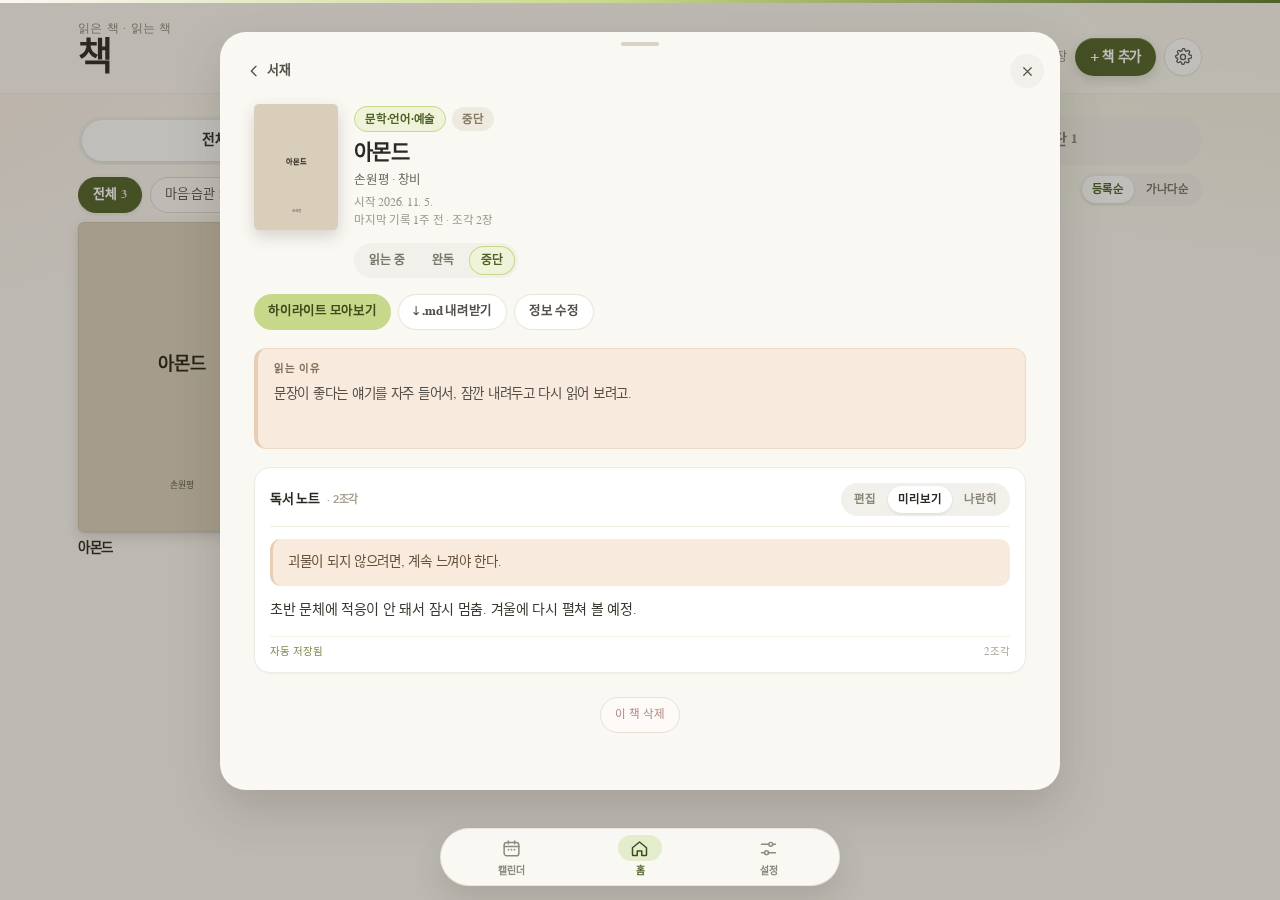
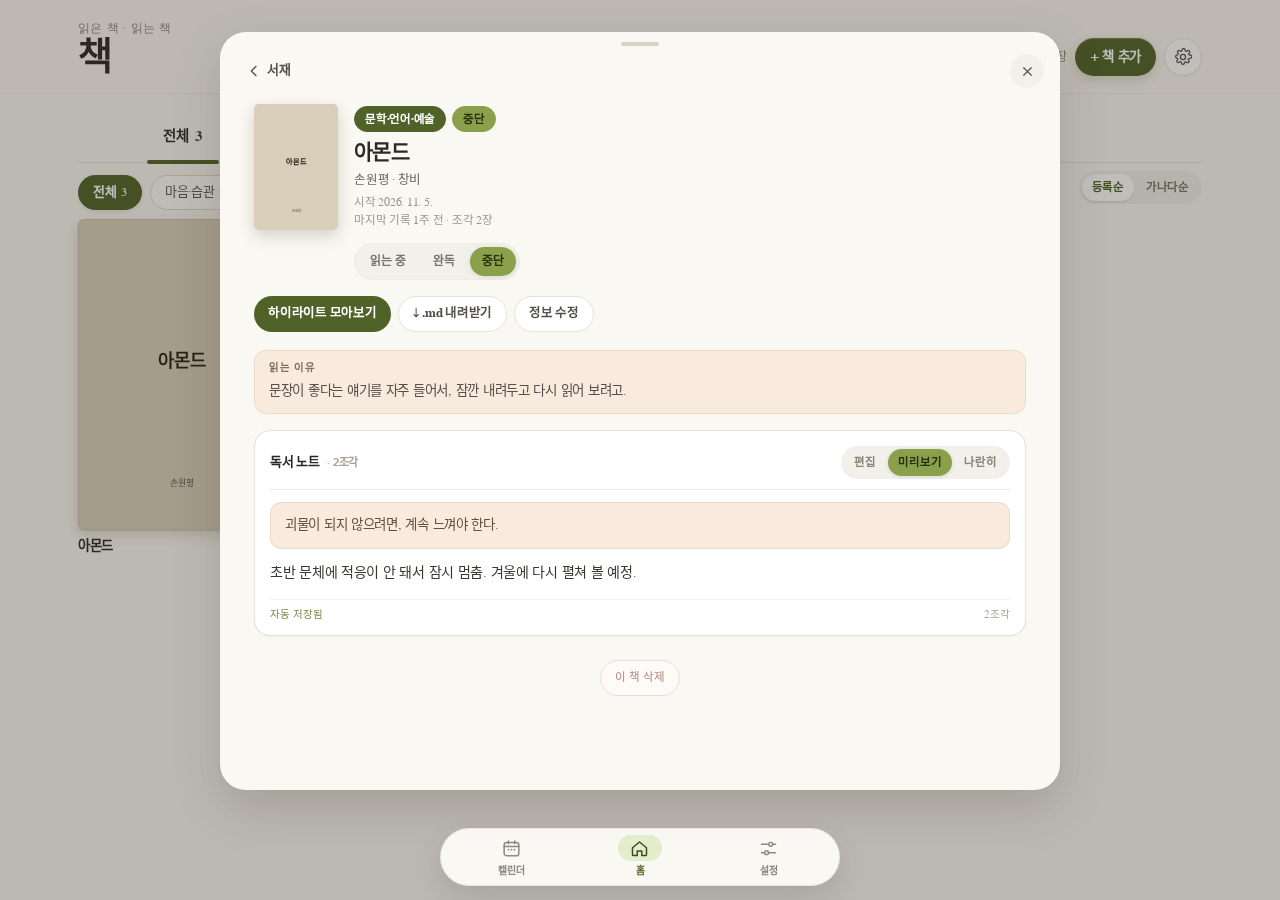
상세 페이지 여백·선·색상 정리, 서재 상태 탭 밑줄 스타일
- 읽는 이유 카드: 왼쪽 굵은 선 제거(사면 1px), 패딩 10px 14px, 입력한 만큼만 높아지게(min 22px)
- 인용구: 미리보기·하이라이트 모아보기 모두 왼쪽 굵은 선 제거 → 얇은 테두리+부드러운 배경 카드
- 상세 3색 역할 분리: 카테고리 배지·하이라이트 모아보기=강조색, 상태 배지·상태 변경 바·노트 모드 탭=보조색(--on-accent2 추가)
- 노트 카드 테두리 강화(배경/카드 단색 구분), 서재 상태 탭을 알약 바에서 얇은 가로선 위 밑줄 탭으로 교체(강조색 4px 둥근 밑줄)
- README·미리보기 이미지 갱신

diff --git a/index.html b/index.html
@@ -28,6 +28,7 @@
   --on-accent:#FFFFFF;
   /* 두 번째 포인트 색 — 칩·보조 배지·인용 */
   --accent2:#8AA04A;
+  --on-accent2:#24320C;
   --accent2-text:#5C6E2A;
   --accent2-soft:#CBDBA0;
   --accent2-wash:#F2F6E4;
@@ -87,7 +88,7 @@
   --olive:#649B92; --olive-soft:#AFD0CA; --olive-wash:#E5F1EF;
   --olive-deep:#548A82; --btn-olive-ink:#1F4A45;
   --accent-text:#3B6B64; --on-accent:#0E2A26;
-  --accent2:#B3AA99; --accent2-text:#7E7462; --accent2-soft:#D9D1C3; --accent2-wash:#F4EFE5;
+  --accent2:#B3AA99; --on-accent2:#2E2A22; --accent2-text:#7E7462; --accent2-soft:#D9D1C3; --accent2-wash:#F4EFE5;
   --peach:#FFEFCA; --peach-line:#B3AA99; --peach-edge:#E6D9BE; --peach-ink:#5A4C33;
   --rose:#F7EBDC; --gray-card:#F3ECDD;
   --topbar-bg:rgba(255,246,225,.85); --topbar-line:rgba(179,170,153,.42);
@@ -113,7 +114,7 @@
   --olive:#90B787; --olive-soft:#C3DBBC; --olive-wash:#EDF6EA;
   --olive-deep:#7DA773; --btn-olive-ink:#2B4A22;
   --accent-text:#46763A; --on-accent:#1E3517;
-  --accent2:#7BB0E0; --accent2-text:#3C74A8; --accent2-soft:#BAD9F2; --accent2-wash:#E9F3FC;
+  --accent2:#7BB0E0; --on-accent2:#17334B; --accent2-text:#3C74A8; --accent2-soft:#BAD9F2; --accent2-wash:#E9F3FC;
   --peach:#FDEBE7; --peach-line:#FD8B7A; --peach-edge:#F8CBC1; --peach-ink:#7C3A2E;
   --rose:#FDEEEA; --gray-card:#EFF4ED;
   --topbar-bg:rgba(247,251,245,.84); --topbar-line:rgba(144,183,135,.35);
@@ -139,7 +140,7 @@
   --olive:#D1BF4E; --olive-soft:#E3D794; --olive-wash:#FBF4D6;
   --olive-deep:#C0AE3E; --btn-olive-ink:#3A3308;
   --accent-text:#6E6412; --on-accent:#2C2814;
-  --accent2:#9999CC; --accent2-text:#5B5B9B; --accent2-soft:#CBCBE7; --accent2-wash:#EFEFF8;
+  --accent2:#9999CC; --on-accent2:#22224A; --accent2-text:#5B5B9B; --accent2-soft:#CBCBE7; --accent2-wash:#EFEFF8;
   --peach:#EFEFF8; --peach-line:#9999CC; --peach-edge:#D2D2E8; --peach-ink:#3E3E6B;
   --rose:#F5ECF6; --gray-card:#F4EDD5;
   --topbar-bg:rgba(255,246,222,.85); --topbar-line:rgba(209,191,78,.35);
@@ -188,12 +189,20 @@ h1.app-title{margin:0;font-size:33px;line-height:1.05;font-weight:800;letter-spa
 
 /* ============ shelf ============ */
 .shell{max-width:1180px;margin:0 auto;padding:18px 24px calc(var(--tabbar-h) + 34px)}
-.segmented{display:flex;gap:3px;background:var(--seg-bg);border-radius:999px;padding:4px;overflow-x:auto;scrollbar-width:none;-ms-overflow-style:none}
+/* 상태 탭 = 밑줄 탭(얇은 가로선 위 4칸) */
+.segmented{display:flex;gap:0;background:transparent;border-bottom:1px solid var(--line);padding:0;overflow:visible}
 .segmented::-webkit-scrollbar{display:none}
-.seg-btn{flex:1 0 auto;border-radius:999px;padding:9px 10px;font-size:13.5px;font-weight:600;color:var(--seg-ink);white-space:nowrap;letter-spacing:-.02em;transition:background .15s,color .15s,box-shadow .15s;display:inline-flex;align-items:center;justify-content:center;gap:4px}
-.seg-btn .cnt{font-weight:700;font-size:12.5px;opacity:.85}
-.seg-btn.active{background:var(--seg-active-bg);color:var(--seg-active-ink);box-shadow:var(--seg-shadow)}
-.seg-btn.active .cnt{color:inherit;opacity:.82}
+.seg-btn{position:relative;flex:1 1 0;max-width:210px;min-width:0;border-radius:0;padding:8px 3px 12px;font-size:13.5px;font-weight:600;color:var(--seg-ink);white-space:nowrap;letter-spacing:-.02em;transition:color .15s;display:inline-flex;align-items:center;justify-content:center;gap:5px;text-align:center}
+.seg-btn::after{content:"";position:absolute;left:50%;bottom:-2px;width:100%;max-width:72px;height:4px;border-radius:99px;background:var(--chip-active-bg);transform:translateX(-50%) scaleX(0);transform-origin:center;transition:transform .18s ease}
+.seg-btn .cnt{font-weight:inherit;font-size:inherit;opacity:.7}
+.seg-btn.active{color:var(--ink);font-weight:800}
+.seg-btn.active .cnt{color:inherit;opacity:.9}
+.seg-btn.active::after{transform:translateX(-50%) scaleX(1)}
+.seg-btn:hover:not(.active){color:var(--ink-2)}
+@media(max-width:400px){
+  .seg-btn{font-size:12.5px;gap:4px;padding:8px 1px 11px}
+  .seg-btn::after{max-width:60px;height:3.5px}
+}
 .chips{display:flex;gap:8px;overflow-x:auto;padding:12px 0 4px;scrollbar-width:none;flex:1 1 auto;min-width:0}
 .shelf-bar{display:flex;align-items:flex-start;gap:8px}
 .sort-switch{flex:0 0 auto;display:inline-flex;gap:2px;background:var(--gray-card);border-radius:999px;padding:3px;margin-top:8px}
@@ -285,7 +294,7 @@ h1.app-title{margin:0;font-size:33px;line-height:1.05;font-weight:800;letter-spa
   h1.app-title{font-size:38px}
   .grid{grid-template-columns:repeat(4,minmax(0,1fr));gap:26px 18px}
   .book-title{font-size:13.5px}
-  .seg-btn{flex:1;padding:10px 12px;font-size:14px}
+  .seg-btn{flex:1 1 0;padding:10px 6px 14px;font-size:14.5px;gap:6px}
 }
 @media(min-width:980px){
   .grid{grid-template-columns:repeat(5,minmax(0,1fr));gap:30px 22px}
@@ -333,39 +342,42 @@ h1.app-title{margin:0;font-size:33px;line-height:1.05;font-weight:800;letter-spa
 .hero-meta{min-width:0;padding-top:2px}
 .tag-row{display:flex;align-items:center;gap:6px;flex-wrap:wrap;margin-bottom:7px}
 .tag{display:inline-flex;align-items:center;border-radius:999px;padding:3.5px 10px;font-size:11.5px;font-weight:700;letter-spacing:-.02em;white-space:nowrap}
-.tag-cat{background:var(--olive-wash);color:var(--olive);border:1px solid var(--olive-soft)}
-.st-reading{background:var(--olive-wash);color:var(--olive)}
-.st-done{background:var(--gray-card);color:var(--ink-2)}
-.st-paused{background:#EFEAE0;color:#867B67}
+/* 카테고리 배지 = 강조색(지정 색이 있으면 JS가 그 색으로 덮어씀) */
+.tag-cat{background:var(--chip-active-bg);color:var(--chip-active-ink);border:1px solid var(--chip-active-bg)}
+/* 상태 배지 = 보조색 */
+.st-reading,.st-done,.st-paused{background:var(--accent2);color:var(--on-accent2);border:1px solid var(--accent2)}
 .no-tag{display:none}
 .hero-title{margin:0 0 5px;font-size:21px;line-height:1.32;font-weight:800;letter-spacing:-.035em;word-break:keep-all}
 .byline{margin:0 0 3px;font-size:12.5px;color:#6B665B;letter-spacing:-.02em}
 .dates{margin:0;font-size:11.5px;color:#9C968A;letter-spacing:-.02em;line-height:1.6}
 .dates span{display:block}
-.status-switch{display:inline-flex;gap:3px;background:var(--gray-card);border-radius:999px;padding:3px;margin-top:12px}
+.status-switch{display:inline-flex;gap:3px;background:var(--gray-card);border:1px solid var(--line-soft);border-radius:999px;padding:3px;margin-top:12px}
 .status-switch button{border-radius:999px;padding:5.5px 12px;font-size:12px;font-weight:600;color:var(--seg-ink)}
-.status-switch button.active{background:var(--olive-wash);color:var(--accent-text);box-shadow:inset 0 0 0 1px var(--olive-soft);font-weight:800}
+/* 상태 변경 바 활성 = 보조색 */
+.status-switch button.active{background:var(--accent2);color:var(--on-accent2);box-shadow:var(--seg-shadow);font-weight:800}
 .hero-actions{display:flex;flex-wrap:wrap;gap:7px;margin:16px 0 18px}
 .btn{display:inline-flex;align-items:center;gap:5px;border-radius:999px;padding:8px 14px;font-size:12.5px;font-weight:700;letter-spacing:-.02em;transition:all .15s}
-.btn-olive{background:var(--olive-soft);color:var(--btn-olive-ink)}
-.btn-olive:hover{filter:brightness(.96) saturate(1.05)}
+/* 주요 액션(하이라이트 모아보기 등) = 강조색 */
+.btn-olive{background:var(--chip-active-bg);color:var(--chip-active-ink)}
+.btn-olive:hover{filter:brightness(.95) saturate(1.04)}
 .btn-ghost{background:var(--paper);border:1px solid var(--line);color:var(--ink-2)}
 .btn-ghost:hover{background:var(--panel);border-color:var(--olive-soft);color:var(--accent-text)}
 
 /* reason card */
-.reason-card{background:var(--peach);border:1px solid var(--peach-edge);border-left:4px solid var(--peach-line);border-radius:12px;padding:13px 16px 14px;margin-bottom:18px}
-.reason-card label{display:block;font-size:10.5px;font-weight:800;letter-spacing:.06em;color:var(--peach-ink);opacity:.8;margin-bottom:5px;text-transform:uppercase}
-.reason-card textarea{width:100%;border:0;background:transparent;resize:none;font-size:13.5px;line-height:1.65;color:var(--ink-2);letter-spacing:-.02em;padding:0;min-height:44px;outline:none}
+.reason-card{background:var(--peach);border:1px solid var(--peach-edge);border-radius:12px;padding:10px 14px 11px;margin-bottom:16px}
+.reason-card label{display:block;font-size:10.5px;font-weight:800;letter-spacing:.06em;color:var(--peach-ink);opacity:.8;margin-bottom:3px;text-transform:uppercase}
+.reason-card textarea{display:block;width:100%;border:0;background:transparent;resize:none;font-size:13.5px;line-height:1.65;color:var(--ink-2);letter-spacing:-.02em;padding:0;min-height:22px;height:22px;overflow:hidden;outline:none}
 .reason-card textarea::placeholder{color:var(--muted);opacity:.85}
 
 /* notes */
-.notes-card{background:var(--paper);border:1px solid var(--line-soft);border-radius:var(--r-md);box-shadow:var(--shadow-sm);padding:15px 15px 12px;margin-bottom:18px}
+.notes-card{background:var(--paper);border:1px solid var(--line);border-radius:var(--r-md);box-shadow:var(--shadow-sm);padding:15px 15px 12px;margin-bottom:18px}
 .notes-head{display:flex;align-items:center;justify-content:space-between;gap:10px;margin-bottom:10px}
 .notes-head h3{margin:0;font-size:13px;font-weight:800;letter-spacing:-.02em}
 .notes-head h3 span{font-weight:600;color:#A9A395;font-size:11px;margin-left:5px}
 .mode-switch{display:inline-flex;gap:2px;background:var(--gray-card);border-radius:999px;padding:3px}
 .mode-switch button{border-radius:999px;padding:5px 10px;font-size:11.5px;font-weight:600;color:#8A8577}
-.mode-switch button.active{background:#fff;color:var(--ink);box-shadow:0 1px 3px rgba(60,52,36,.12);font-weight:700}
+/* 노트 모드 탭 활성 = 보조색 */
+.mode-switch button.active{background:var(--accent2);color:var(--on-accent2);box-shadow:var(--seg-shadow);font-weight:800}
 .toolbar{display:flex;flex-wrap:wrap;gap:5px;padding:0 0 9px}
 .toolbar::-webkit-scrollbar{display:none}
 .toolbar button{flex:0 0 auto;border:1px solid var(--line);border-radius:8px;padding:5px 8px;font-size:11px;font-weight:600;color:var(--seg-ink);background:var(--panel)}
@@ -405,7 +417,7 @@ h1.app-title{margin:0;font-size:33px;line-height:1.05;font-weight:800;letter-spa
 .md h2{font-size:16.5px;font-weight:800;letter-spacing:-.03em;margin:18px 0 7px;line-height:1.4}
 .md h3{font-size:14.5px;font-weight:700;margin:15px 0 6px}
 .md p{margin:0 0 11px}
-.md blockquote{margin:12px 0;padding:12px 15px;background:var(--peach);border-radius:11px;color:var(--peach-ink);font-size:13.5px;line-height:1.72;border-left:3px solid var(--peach-line)}
+.md blockquote{margin:12px 0;padding:11px 14px;background:var(--peach);border:1px solid var(--peach-edge);border-radius:11px;color:var(--peach-ink);font-size:13.5px;line-height:1.72}
 .md blockquote p:last-child{margin-bottom:0}
 .md ul,.md ol{margin:0 0 12px;padding-left:19px}
 .md li{margin:4px 0}
@@ -579,7 +591,7 @@ h1.app-title{margin:0;font-size:33px;line-height:1.05;font-weight:800;letter-spa
 
 /* quotes */
 .quote-list{display:flex;flex-direction:column;gap:9px}
-.quote-item{background:var(--peach);border:1px solid var(--peach-edge);border-left:4px solid var(--peach-line);border-radius:12px;padding:12px 15px;font-family:var(--font-note);font-size:13.5px;line-height:1.7;color:var(--peach-ink);letter-spacing:-.02em}
+.quote-item{background:var(--peach);border:1px solid var(--peach-edge);border-radius:12px;padding:12px 15px;font-family:var(--font-note);font-size:13.5px;line-height:1.7;color:var(--peach-ink);letter-spacing:-.02em}
 .quote-item .src{display:block;margin-top:6px;font-size:10.5px;color:var(--muted)}
 .quote-empty{text-align:center;padding:26px 10px;color:var(--muted);font-size:12.5px;line-height:1.7}
 
@@ -776,7 +788,7 @@ h1.app-title{margin:0;font-size:33px;line-height:1.05;font-weight:800;letter-spa
 
       <div class="reason-card">
         <label for="dReason">읽는 이유</label>
-        <textarea id="dReason" rows="2" placeholder="이 책을 읽는 이유를 적어 두세요. (예: 슬럼프 하반기 공채 면접 시즌)"></textarea>
+        <textarea id="dReason" rows="1" placeholder="이 책을 읽는 이유를 적어 두세요"></textarea>
       </div>
 
       <section class="notes-card">
@@ -2397,7 +2409,7 @@ function fillDetail(b){
 }
 function autoGrow(el){
   el.style.height='auto';
-  el.style.height=Math.max(44,el.scrollHeight)+'px';
+  el.style.height=Math.max(22,el.scrollHeight)+'px';
 }
 function openDetail(id,push){
   var b=null;

diff --git a/README.md b/README.md
@@ -13,11 +13,15 @@
 
 ## 화면
 
-- **서재(홈 탭 · 기본 첫 화면)**: 상단 요약(`N권 · 조각 M장`), 상태 탭(`전체 / 읽는 중 / 완독 / 중단`), 분야 칩, 정렬(`등록순 / 가나다순`), 표지 그리드(모바일 3열 / 데스크톱 5열)
+- **서재(홈 탭 · 기본 첫 화면)**: 상단 요약(`N권 · 조각 M장`), 상태 탭(`전체 / 읽는 중 / 완독 / 중단`, 권수 표시 · 얇은 가로선 위 **밑줄 탭**), 분야 칩, 정렬(`등록순 / 가나다순`), 표지 그리드(모바일 3열 / 데스크톱 5열)
 - **캘린더 탭**: 책을 **시작한 날**에 그 책의 표지가 채워지는 월간 달력 (아래 참고)
-- **책 상세**(표지를 누르면 열림): 분야·상태 배지, 제목·저자·출판사·시작일·완독일·마지막 기록·조각 수, 상태 변경, `하이라이트 모아보기`, `읽는 이유` 카드, 마크다운 독서 노트
+- **책 상세**(표지를 누르면 열림): 분야·상태 배지, 제목·저자·출판사·시작일·완독일·마지막 기록·조각 수, 상태 변경, `하이라이트 모아보기`, `읽는 이유` 카드(입력한 만큼만 높아지는 납작한 카드), 마크다운 독서 노트
 - **하단 탭바**: `캘린더` · `홈` · `설정` — 가운데 **홈**이 서재이고, `설정`은 ⚙ 설정 창을 바로 엽니다
 - ⚙ **설정 및 백업**: 폰트, 페이지 컬러 테마, 분야 색상, 도서 검색 API 키, GitHub 동기화, JSON 백업
+
+## 상태 탭
+
+서재 위쪽 `전체 N · 읽는 중 N · 완독 N · 중단 N` 은 **밑줄 탭**입니다. 둥근 알약 바 대신 얇은 가로선 위에 네 탭을 나란히 두고, 고른 탭만 진한 글자색과 **테마 강조색의 둥근 밑줄**(높이 4px, `border-radius:99px` · 모바일 3.5px)로 표시합니다. 누르면 그 상태의 책만 남고 권수는 항상 함께 보입니다.
 
 ## 정렬
 
@@ -94,14 +98,14 @@
 | 자리 (역할) | 기본 | 어스 | 스프링 | 내추럴 |
 |---|---|---|---|---|
 | 페이지 배경 (주조색, 단색) | 크림 `#FAF8F3` | `#FFF6E1` | `#F7FBF5` | `#FFF6DE` |
-| 상태 바 `전체/읽는 중/완독/중단` (보조색) | 올리브 활성 `#4F6228` | 토프 `#B3AA99` | 스카이 `#7BB0E0` | 라벤더 `#9999CC` |
-| 카테고리(분야) 칩 활성 (강조색) | 올리브 `#4F6228` | 틸 `#649B92` | 코랄 `#FD8B7A` | 골드 `#D1BF4E` |
-| `+ 책 추가`·하단 활성 탭 | 올리브 | 틸 | 그린 `#90B787` | 골드 |
-| 인용/이유 박스 | 크림 `#F8EADD` | `#FFEFCA` + 토프 테두리 | 코랄 틴트 `#FDEBE7` | 라벤더 틴트 `#EFEFF8` |
+| 서재 상태 탭 밑줄 · 카테고리 칩 활성 · 상세 `하이라이트 모아보기` (강조색) | 올리브 `#4F6228` | 틸 `#649B92` | 코랄 `#FD8B7A` | 골드 `#D1BF4E` |
+| 상세의 상태 배지 · 상태 변경 바 · 노트 모드 탭 (보조색) | 올리브 `#8AA04A` | 토프 `#B3AA99` | 스카이 `#7BB0E0` | 라벤더 `#9999CC` |
+| `+ 책 추가`·하단 활성 탭 (주조 동작색) | 올리브 | 틸 | 그린 `#90B787` | 골드 |
+| 인용/이유 박스 (얇은 테두리, 왼쪽 굵은 선 없음) | 크림 `#F8EADD` | `#FFEFCA` | 코랄 틴트 `#FDEBE7` | 라벤더 틴트 `#EFEFF8` |
 
 - 채운 색 위의 글자는 색에 맞춰 고릅니다: 기본 테마는 **흰 글자**, 어스·스프링·내추럴은 **진한 잉크**(어스 `#0E2A26`, 스프링 `#1E3517`, 내추럴 `#2C2814`)를 써서 작은 글자도 또렷하게 읽히고, 팔레트 원색은 버튼·칩의 면으로 그대로 살립니다.
 - 페이지 배경은 그라데이션 없이 **한 가지 단색**으로만 칠합니다(위 표의 배경색). 색은 버튼·칩·인용 박스·탭바 같은 면에만 씁니다.
-- 한 화면에서 세 색이 각각 다른 자리를 맡아 동시에 보입니다: **배경(주조) · 상태 바(보조) · 카테고리 칩과 `+ 책 추가`(강조)**. 어스는 크림·토프·틸, 스프링은 연두빛 바탕·스카이·코랄·그린, 내추럴은 허니 바탕·라벤더·골드로 구분됩니다.
+- 한 화면에서 세 색이 각각 다른 자리를 맡아 동시에 보입니다: **배경(주조) · 상세 상태 배지(보조) · 탭 밑줄·카테고리 칩·`+ 책 추가`(강조)**. 어스는 크림·토프·틸, 스프링은 연두빛 바탕·스카이·코랄·그린, 내추럴은 허니 바탕·라벤더·골드로 구분됩니다.
 
 ## 분야 색상 (⚙ 설정 및 백업)
 
